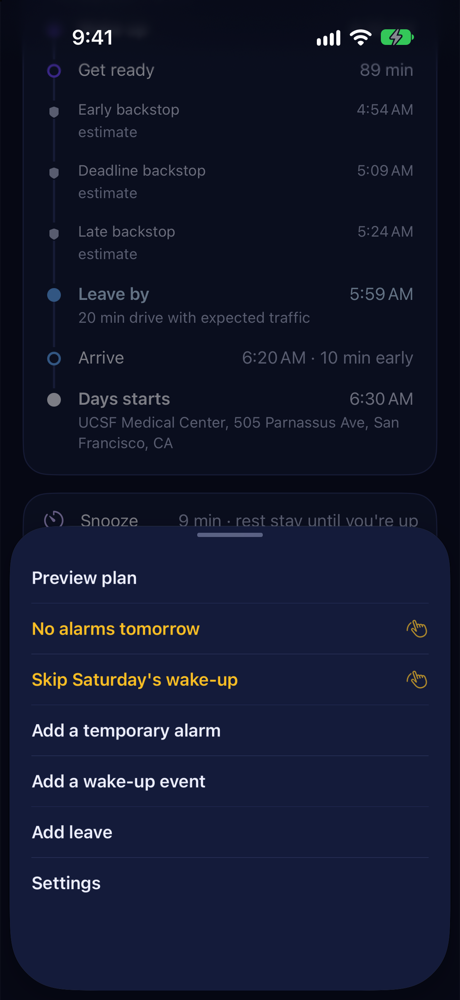
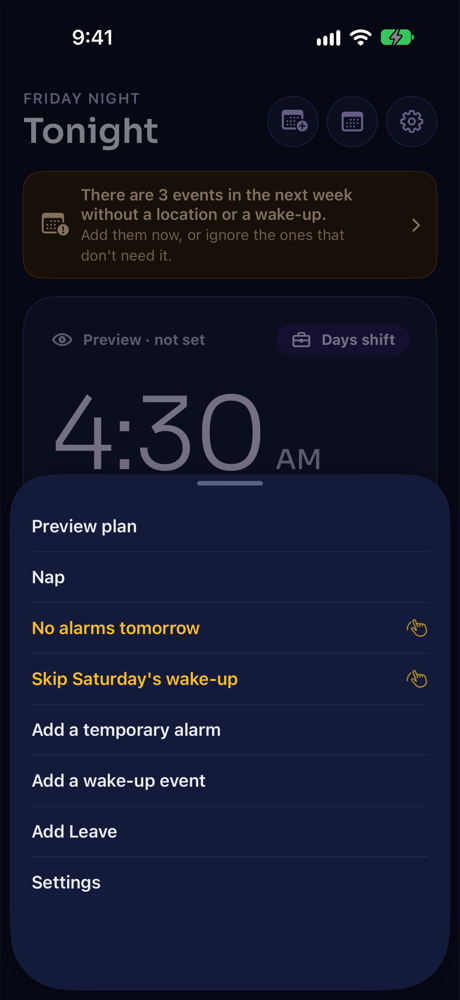
v0.4.7 docs: hand-offs, setup, shortcuts note, README and its pictures
New pictures: Settings (Vacations, the Alarms row), the Alarms page, the ⋯ list with Add per
title, the nothing-set bar, a skipped morning. README: vacations, the two-row bar, the alarm
series pages, Clock, Morning weather, the backup leave reminder, Configure's menu, Set Wake-Up
Alarms using your own alarms. The Alarms row reads "Snooze 9 min" so it fits.

diff --git a/BedtimeBridge/Core/AlarmSeriesText.swift b/BedtimeBridge/Core/AlarmSeriesText.swift
@@ -14,9 +14,10 @@ enum AlarmSeriesText {
         return "Up at \(WakePlanner.format(wake)) → alarms " + times.map(WakePlanner.format).joined(separator: ", ")
     }
 
-    /// The Alarms row on the main Settings page: "Bedtime Bridge alarms · snooze 9 min".
+    /// The Alarms row on the main Settings page: "Snooze 9 min" (the app's alarms), or the Clock
+    /// app's name. Short, so it fits beside the title.
     static func alarmsRow(style: AlarmStyle, snooze: Int) -> String {
-        style == .app ? "\(style.displayName) · snooze \(snooze) min" : style.displayName
+        style == .app ? "Snooze \(snooze) min" : style.displayName
     }
 }
 

diff --git a/BedtimeBridgeTests/AlarmSeriesTests.swift b/BedtimeBridgeTests/AlarmSeriesTests.swift
@@ -22,7 +22,7 @@ final class AlarmSeriesTests: XCTestCase {
     func testSummaries() {
         XCTAssertEqual(AlarmSeriesText.summary(count: 3, spacing: 10), "3 alarms, 10 min apart")
         XCTAssertEqual(AlarmSeriesText.summary(count: 1, spacing: 10), "1 alarm")
-        XCTAssertEqual(AlarmSeriesText.alarmsRow(style: .app, snooze: 9), "\(AlarmStyle.app.displayName) · snooze 9 min")
+        XCTAssertEqual(AlarmSeriesText.alarmsRow(style: .app, snooze: 9), "Snooze 9 min")
         XCTAssertTrue(AlarmSeriesText.example(count: 3, spacing: 10, wakeIs: .last).hasPrefix("Up at"))
     }
 

diff --git a/README.md b/README.md
@@ -33,7 +33,7 @@ chain of calendar, maps and alarm actions. A companion Home Assistant integratio
 helpers your automations can use.
 
 - [A quick tour](#a-quick-tour)
-- [What's in the app](#whats-in-the-app): [bottom bar](#the-bottom-bar) · [wind-down](#wind-down) · [nap](#nap) · [mornings with no alarms](#mornings-with-no-alarms) · [weekly summary](#weekly-summary) · [widgets, Live Activities, controls and Siri](#widgets-live-activities-controls-and-siri) · [notifications](#notifications)
+- [What's in the app](#whats-in-the-app): [bottom bar](#the-bottom-bar) · [wind-down](#wind-down) · [nap](#nap) · [mornings with no alarms](#mornings-with-no-alarms) · [vacations](#vacations) · [weekly summary](#weekly-summary) · [widgets, Live Activities, controls and Siri](#widgets-live-activities-controls-and-siri) · [notifications](#notifications) · [settings](#settings-pages)
 - [How it fits together](#how-it-fits-together)
 - [How planning works](#how-planning-works)
 - [Alarms and snooze](#alarms-and-snooze)
@@ -102,6 +102,12 @@ set, *I'm up early* before the first alarm, *Snoozing · rings 4:34* with *End a
 with no alarms. Everything else is in **⋯**, the same list every time with what doesn't apply
 hidden.
 
+With **nothing set and nothing coming** (on opening, or after a preview finds no shift or
+event), the bar gets a second row: *Set alarms for a time* in violet and *Nap* in orange, then
+*Temporary alarm*, *Preview plan* and ⋯.
+
+<p align="center"><img src="docs/images/nothing-set-bar.png" width="320" alt="The bar with nothing set: Set alarms for a time, Nap, Temporary alarm, Preview plan"></p>
+
 It changes on time by itself while the app is open (5:00 PM, wind-down, go to bed, an alarm
 passing, the morning windows closing, Undo running out), not just when you touch it.
 
@@ -152,6 +158,18 @@ Sleep In on, no alarms, and you get up when you get up. At home, and only on suc
 
 The earliest time, the up-for and wait minutes and the whole thing on/off are in the app.
 
+### Vacations
+
+Settings → **Vacations** (it was Leave). An all-day event titled with one of your *Vacation
+titles* (yours can stay "Leave") is a vacation: no shift alarms, the backstops off, and on
+mornings with no alarms Home Assistant turns Sleep In on. There's an **Add** for each title
+(in Settings, in ⋯, and from Siri, which asks which one), with an **I'm travelling** switch:
+drives and the weather then come from where you are. The page lists the vacations coming up;
+tap one to move it, shorten it (back early) or delete it. The evening before your first shift
+afterwards, a reminder: "Back to work tomorrow: Days at 6:30 AM, first alarm 4:20 AM". Weeks with
+vacation days are marked in the weekly summary, and its notification is skipped while you're
+away. For a sick day, delete that day's shift.
+
 ### Weekly summary
 
 <img src="docs/images/weekly-summary.png" width="220" align="right" alt="This week so far">
@@ -181,12 +199,31 @@ that just ended.
 - **Siri:** plan, cancel, nap, no alarms tomorrow, sleep later, start or cancel wind-down, add
   leave, add a wake-up event, I'm awake.
 
+### Settings pages
+
+<img src="docs/images/alarms-settings.png" width="220" align="right" alt="Settings → Alarms">
+
+- **Alarms** opens with where alarms come from, then **Appointment & event alarms** (how many,
+  how far apart, whether the wake-up time is the first or last; shifts can use these too) and
+  **Your own alarms** (the series for a time you pick, including the *Set Wake-Up Alarms*
+  action), then snooze, sound and the rest.
+- **Clock:** Phone setting, 12-hour or 24-hour, for the app, the widgets, the Live Activities and
+  Home Assistant's notifications.
+- **Morning weather** on Tonight shows the forecast itself ("Rain, 52° at 5:50 · +15 min…", or
+  "Clear, 38° at 8:00 AM · no extra time"): at leave time with a commute, at wake-up with alarms
+  but no event, at *Good morning from* with no alarms.
+
+<br clear="right">
+
 ### Notifications
 
 Settings → Notifications sets each one to Normal, Time-sensitive (comes through Focus) or Critical
 (sounds on silent; only for the ones Home Assistant sends, with Critical Alerts allowed for the
 Home Assistant app). Defaults: *Time for bed* critical; *Still up*, *Plug in your phone*, the
-leave-by reminders and *Tomorrow changed* time-sensitive; the rest normal.
+leave-by reminders and *Tomorrow changed* time-sensitive; the rest normal. When Home Assistant
+does the leave checks, the phone keeps one **backup reminder at leave time** ("Leave by 5:48 · not
+re-checked") in case Home Assistant is down; its check withdraws the backup with a silent push.
+Critical for the app's own notifications waits on Apple (`docs/critical-alerts-request.md`).
 
 ## How it fits together
 
@@ -345,7 +382,7 @@ Home Assistant side is in `docs/ha-handoffs-v*.md`.
   planned*, and **Edit alarms** to move, add or remove any single one.
 - **Wake at a different time** (day off, skip) shows a preview where you can add alarms and edit
   the backstops.
-- **Add a wake-up event** (the round button at the top) and **Add leave**, straight into your
+- **Add a wake-up event** (the round button at the top) and **Add <vacation>**, straight into your
   calendar.
 - **Plug in your phone** at bedtime when the battery is low and it isn't charging.
 
@@ -359,7 +396,10 @@ a private webhook instead of an admin token, and everything shows up in Home Ass
 **Bedtime Bridge** → restart HA. Then go to Settings → Devices & services → Add integration →
 Bedtime Bridge. Or copy `custom_components/bedtime_bridge` into your config folder.
 
-**Setup screen:**
+**Setup:** adding the integration asks only who you are, home only, the notify service, phone
+commands, what snooze and stop do, and your shift types; everything else starts from its default.
+Afterwards **Configure** is a menu of pages (You and home, Wake-up, Bedroom and bed, Bedtime and
+wind-down, Shifts and calendar, Phone, Backstops, Keys), each saving its own options:
 
 | Option | Default |
 |---|---|
@@ -626,7 +666,7 @@ them; re-render after editing a design.
 | Action | Use |
 |---|---|
 | **Plan Wake-Up Alarms** | The main step. Returns a *Wake Plan*: `Has Alarm`, `Wake-Up Time`, `First Alarm`, `Alarm Times`, `Alarm Dates`, `Needs Clock Alarms`, `Alarm Cause`, `Reason`, `Warnings`, `Home Assistant JSON`. Turn off *Set Alarms* to preview only. If nothing needs an alarm, it also clears the app's old alarms. |
-| **Set Wake-Up Alarms** | The day-off path. Give it your wake-up time and it sets the usual alarm series around it (ending at it by default). A time already past today rolls to tomorrow. |
+| **Set Wake-Up Alarms** | The day-off path. Give it your wake-up time and it sets *Your own alarms* from it (starting at it by default). A time already past today rolls to tomorrow. |
 | **Cancel Wake-Up Alarms** | Clears every alarm the app has set and the leave-by reminder. |
 | **Set Temporary Alarm** | One extra alarm at a time, with *House Alarm*: disarm then re-arm, or keep armed. See [temporary alarms](#changing-tonights-plan). |
 | **Undo Bedtime** | *Not going to sleep yet*: regular alarms off, house disarmed, Awake For Day on, Sleep In off; bedtime runs again once you're back in bed. |
@@ -636,7 +676,7 @@ them; re-render after editing a design.
 | **Report Shortcut Ran** | Last step of a shortcut a [phone command](#phone-commands) runs, so Home Assistant clears that command's notification. |
 | **Check Drive and Remind** | Run by the `RUN_LEAVE_CHECK` automation: re-checks this morning's drive, notifies when to leave, tells Home Assistant the new leave-by. |
 | **Get Drive Time** | Drive minutes from home to a place, arriving by a given time. Useful in other shortcuts. |
-| **Nap**, **No Alarms Tomorrow**, **Sleep Later**, **Start / Cancel Wind-Down**, **Add Leave**, **Add a Wake-Up Event**, **I'm Awake** | The same as in the app, for Siri and your own shortcuts. |
+| **Nap**, **No Alarms Tomorrow**, **Sleep Later**, **Start / Cancel Wind-Down**, **Add Vacation**, **Add a Wake-Up Event**, **I'm Awake** | The same as in the app, for Siri and your own shortcuts. |
 | **Preview Tomorrow**, **Morning Update** | Run by the `RUN_PLAN_PREVIEW` and `RUN_MORNING_UPDATE` automations. |
 
 ## Alarm cause

diff --git a/docs/ha-handoffs-v0.4.7.md b/docs/ha-handoffs-v0.4.7.md
@@ -1,0 +1,45 @@
+# Home Assistant hand-offs for Bedtime Bridge 0.4.7
+
+What 0.4.7 needs on the Home Assistant side. Nothing here has been changed in the live instance
+from this repo.
+
+## 1. Install 0.4.7
+
+**HACS → Bedtime Bridge → Update** to 0.4.7, then restart Home Assistant. It includes 0.4.6.
+
+## 2. Configure is now a menu (item 9)
+
+**Settings → Devices & services → Bedtime Bridge → Configure** opens a menu instead of one long
+form: *You and home*, *Wake-up*, *Bedroom and bed*, *Bedtime and wind-down*, *Shifts and calendar*,
+*Phone*, *Backstops*, *Keys*. Each page saves only its own options. Your settings carried over;
+nothing to redo.
+
+## 3. The backup leave reminder (item 2)
+
+With *Drive times from* set to a service (not Phone), Home Assistant does the leave checks and the
+app keeps one reminder at leave time as a backup, marked "not re-checked". When Home Assistant's
+check goes out, it sends the app a silent push and the app withdraws the backup. That push uses the
+Apple push key already in *Keys* (the same one the Live Activities use); without the key the backup
+still fires at leave time.
+
+Open the app once after updating so it sends Home Assistant its push token.
+
+## 4. Vacations (item 6)
+
+- A vacation morning with no alarms turns **Sleep In** on (the *Sleep In helper* on the *Wake-up*
+  page).
+- Weeks with vacation days are marked in the weekly summary sensor (attribute `vacation`, e.g.
+  "Vacation Nov 2 – 6"), and the weekly notification is skipped while you're on vacation.
+- The vacation titles are still matched separately by Home Assistant's `current_shift.yaml` (until
+  v0.6). Yours stays "Leave", so nothing changes there.
+
+## 5. 24-hour times (item 10)
+
+Home Assistant now writes times in its notifications and Live Activity alerts the way the app's
+**Settings → Clock** says (sent with every message). With your phone on 24-hour and Clock on
+*Phone setting*, "Bed at 9:50 PM" becomes "Bed at 21:50".
+
+## 6. Keys in the log (item 3)
+
+A failed TomTom or Google request no longer writes its key into Home Assistant's log. Nothing to
+set.

diff --git a/docs/setup.md b/docs/setup.md
@@ -1,4 +1,10 @@
-# Setting up v0.4.2 – 0.4.6: everything, in order
+# Setting up v0.4.2 – 0.4.7: everything, in order
+
+**New in 0.4.7:** update the integration to **0.4.7** in HACS and restart, then open the app once
+(it sends Home Assistant its push token for the backup leave reminder). Configure is now a menu of
+pages; your settings carried over. Optional: **Settings → Clock** (24-hour) and **Settings →
+Vacations**. If you want Critical for the app's own notifications, submit the request in
+`docs/critical-alerts-request.md`. Details: `docs/ha-handoffs-v0.4.7.md`.
 
 **New in 0.4.6** (if you've done everything below already, this is all): update the integration
 to **0.4.6** in HACS and restart, then set **Hallway presence** in Bedtime Bridge → Configure, and
@@ -18,7 +24,7 @@ the paid account, good until 30 Oct 2027).
 ## Part 1: Home Assistant
 
 ### 1. Update the integration
-- [ ] **HACS → Bedtime Bridge → Update** to **0.4.6** (it includes 0.4.2 – 0.4.5). Not 0.4.4:
+- [ ] **HACS → Bedtime Bridge → Update** to **0.4.7** (it includes 0.4.2 – 0.4.6). Not 0.4.4:
       0.4.5 and later have the `RUN_CANCEL_WIND_DOWN` command the new Wind Down Off shortcut uses.
 - [ ] **Settings → System → Restart Home Assistant.** On restart it installs `h2`, which the
       Live Activity pushes need.
@@ -32,8 +38,9 @@ the paid account, good until 30 Oct 2027).
 Check each one's entity id after creating it (click it → settings cog).
 
 ### 3. Fill in the integration's options
-**Settings → Devices & services → Bedtime Bridge → Configure.** Set these and leave everything
-else as it is:
+**Settings → Devices & services → Bedtime Bridge → Configure.** It opens a menu of pages (You and
+home, Wake-up, Bedroom and bed, Bedtime and wind-down, Shifts and calendar, Phone, Backstops,
+Keys); each saves on its own. Set these and leave everything else as it is:
 
 | Option | Set to |
 | --- | --- |

diff --git a/docs/shortcuts.md b/docs/shortcuts.md
@@ -41,7 +41,8 @@ automation, filtering on the message text, set to run immediately.
    3. If the plan says "No alarm": ask "Would you like wake-up alarms?"
       - **Set wake-up alarms:** ask for the first wake-up time (default: 6 hours from now), then
         Bedtime Bridge **Set Wake-Up Alarms** with that time as the *first* alarm. `Alarmtimes` =
-        that result.
+        that result. (From 0.4.7 the action uses Settings → Alarms → *Your own alarms* for how
+        many alarms and how far apart, and starts at your time unless *Time Is* says otherwise.)
       - **No alarms:** ask "Would you like to enable Sleep In?" **Yes** runs a HomeKit scene that
         turns Sleep In on. **No** does nothing.
    4. ecobee **Get Home Monitoring State** (the house alarm's state).
